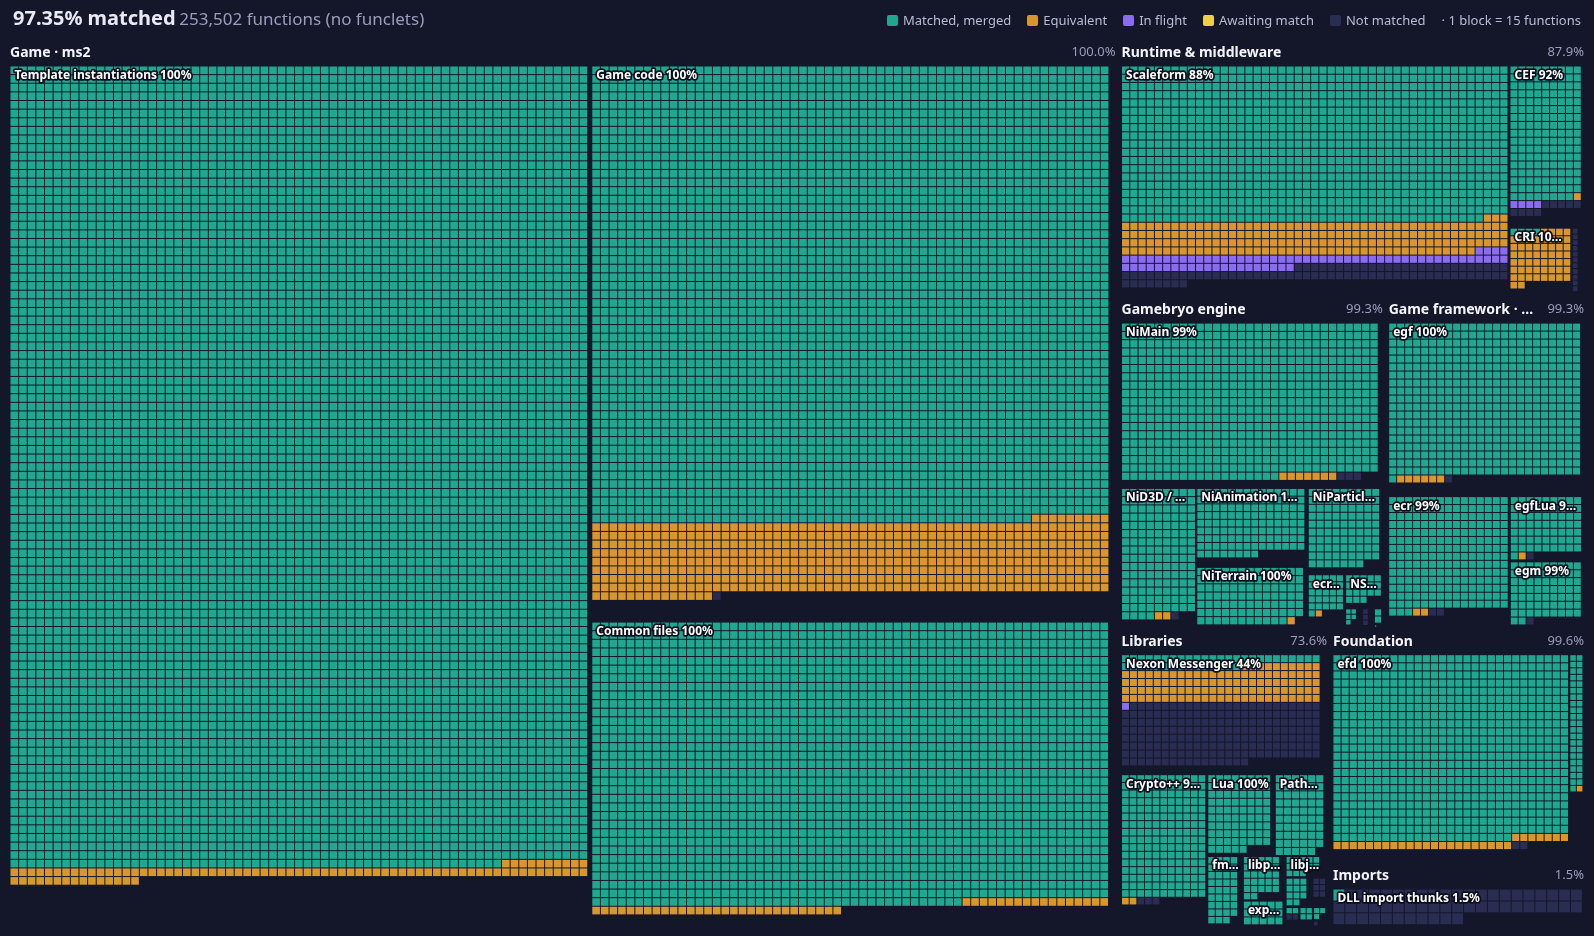
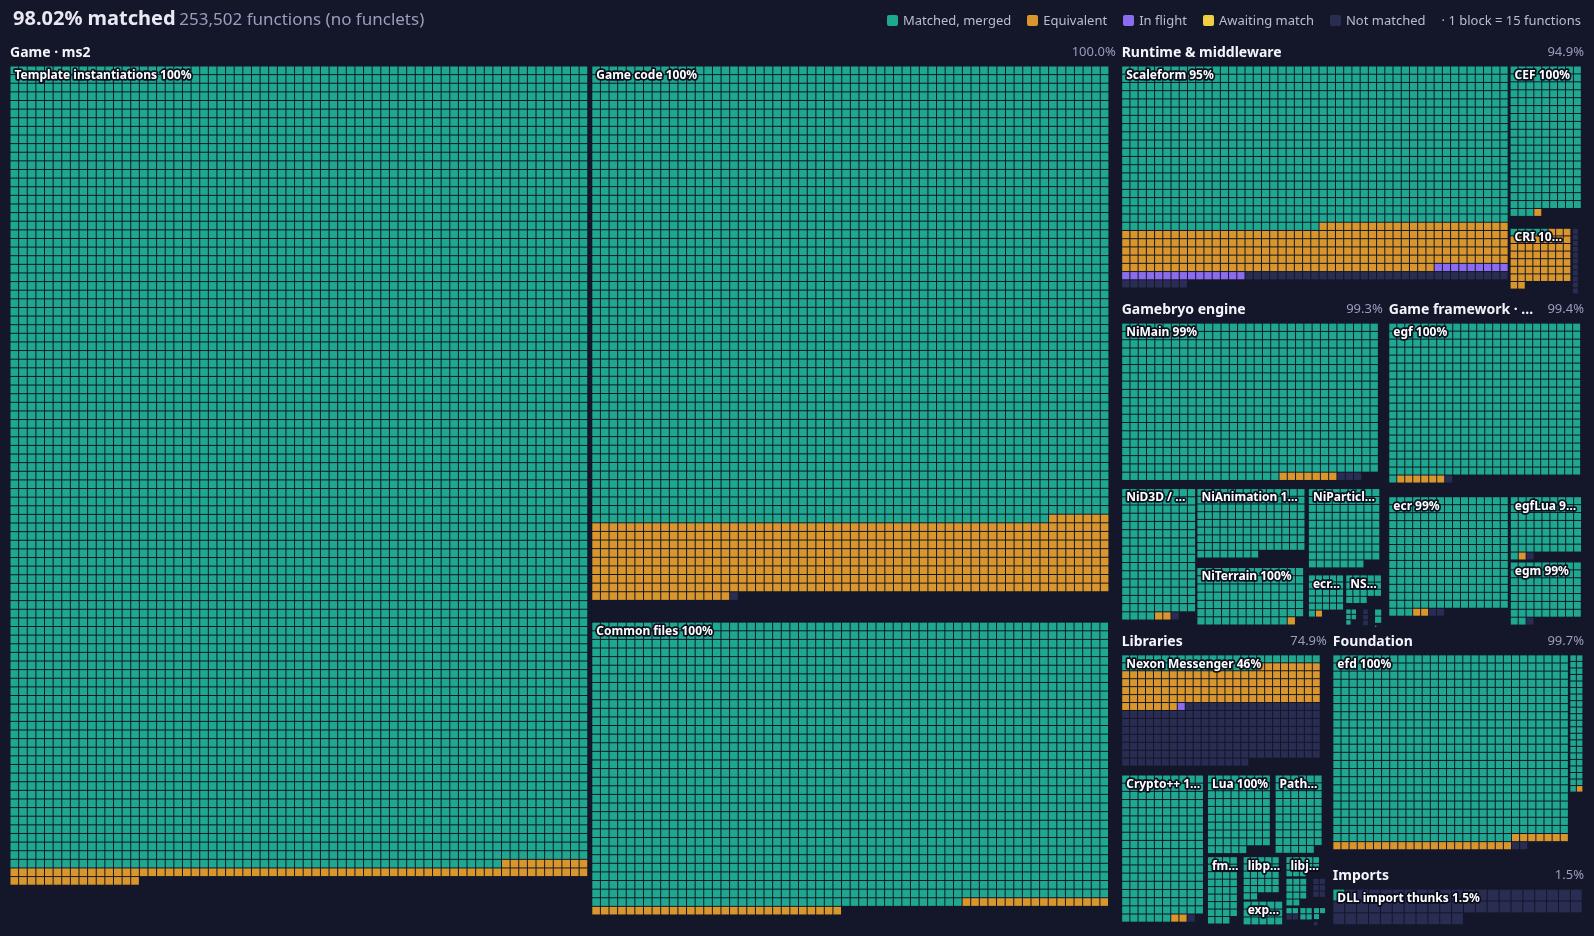
README: refresh progress image and table

diff --git a/README.md b/README.md
@@ -25,14 +25,14 @@ Merged totals by area (functions in the original executable; regenerated on each
 <!-- progress:start -->
 | Area | Functions | Matched | Equivalent | Done |
 |---|---:|---:|---:|---:|
-| Game · ms2 | 179,928 | 170,292 (94.6%) | 9,620 (5.3%) | 100.0% |
-| Runtime & middleware | 21,956 | 15,686 (71.4%) | 3,613 (16.5%) | 87.9% |
-| Gamebryo engine | 16,149 | 15,880 (98.3%) | 158 (1.0%) | 99.3% |
-| Game framework · egf | 12,169 | 11,950 (98.2%) | 138 (1.1%) | 99.3% |
-| Libraries | 11,535 | 6,818 (59.1%) | 1,670 (14.5%) | 73.6% |
-| Foundation | 10,983 | 10,507 (95.7%) | 436 (4.0%) | 99.6% |
+| Game · ms2 | 179,953 | 170,316 (94.6%) | 9,621 (5.3%) | 100.0% |
+| Runtime & middleware | 21,953 | 16,281 (74.2%) | 4,551 (20.7%) | 94.9% |
+| Gamebryo engine | 16,151 | 15,882 (98.3%) | 158 (1.0%) | 99.3% |
+| Game framework · egf | 12,168 | 11,953 (98.2%) | 138 (1.1%) | 99.4% |
+| Libraries | 11,515 | 6,863 (59.6%) | 1,759 (15.3%) | 74.9% |
+| Foundation | 10,980 | 10,509 (95.7%) | 435 (4.0%) | 99.7% |
 | Imports | 782 | 11 (1.4%) | 1 (0.1%) | 1.5% |
-| **Total** | **253,502** | 231,144 (91.2%) | 15,636 (6.2%) | 97.3% |
+| **Total** | **253,502** | 231,815 (91.4%) | 16,663 (6.6%) | 98.0% |
 <!-- progress:end -->
 
 ## Layout
